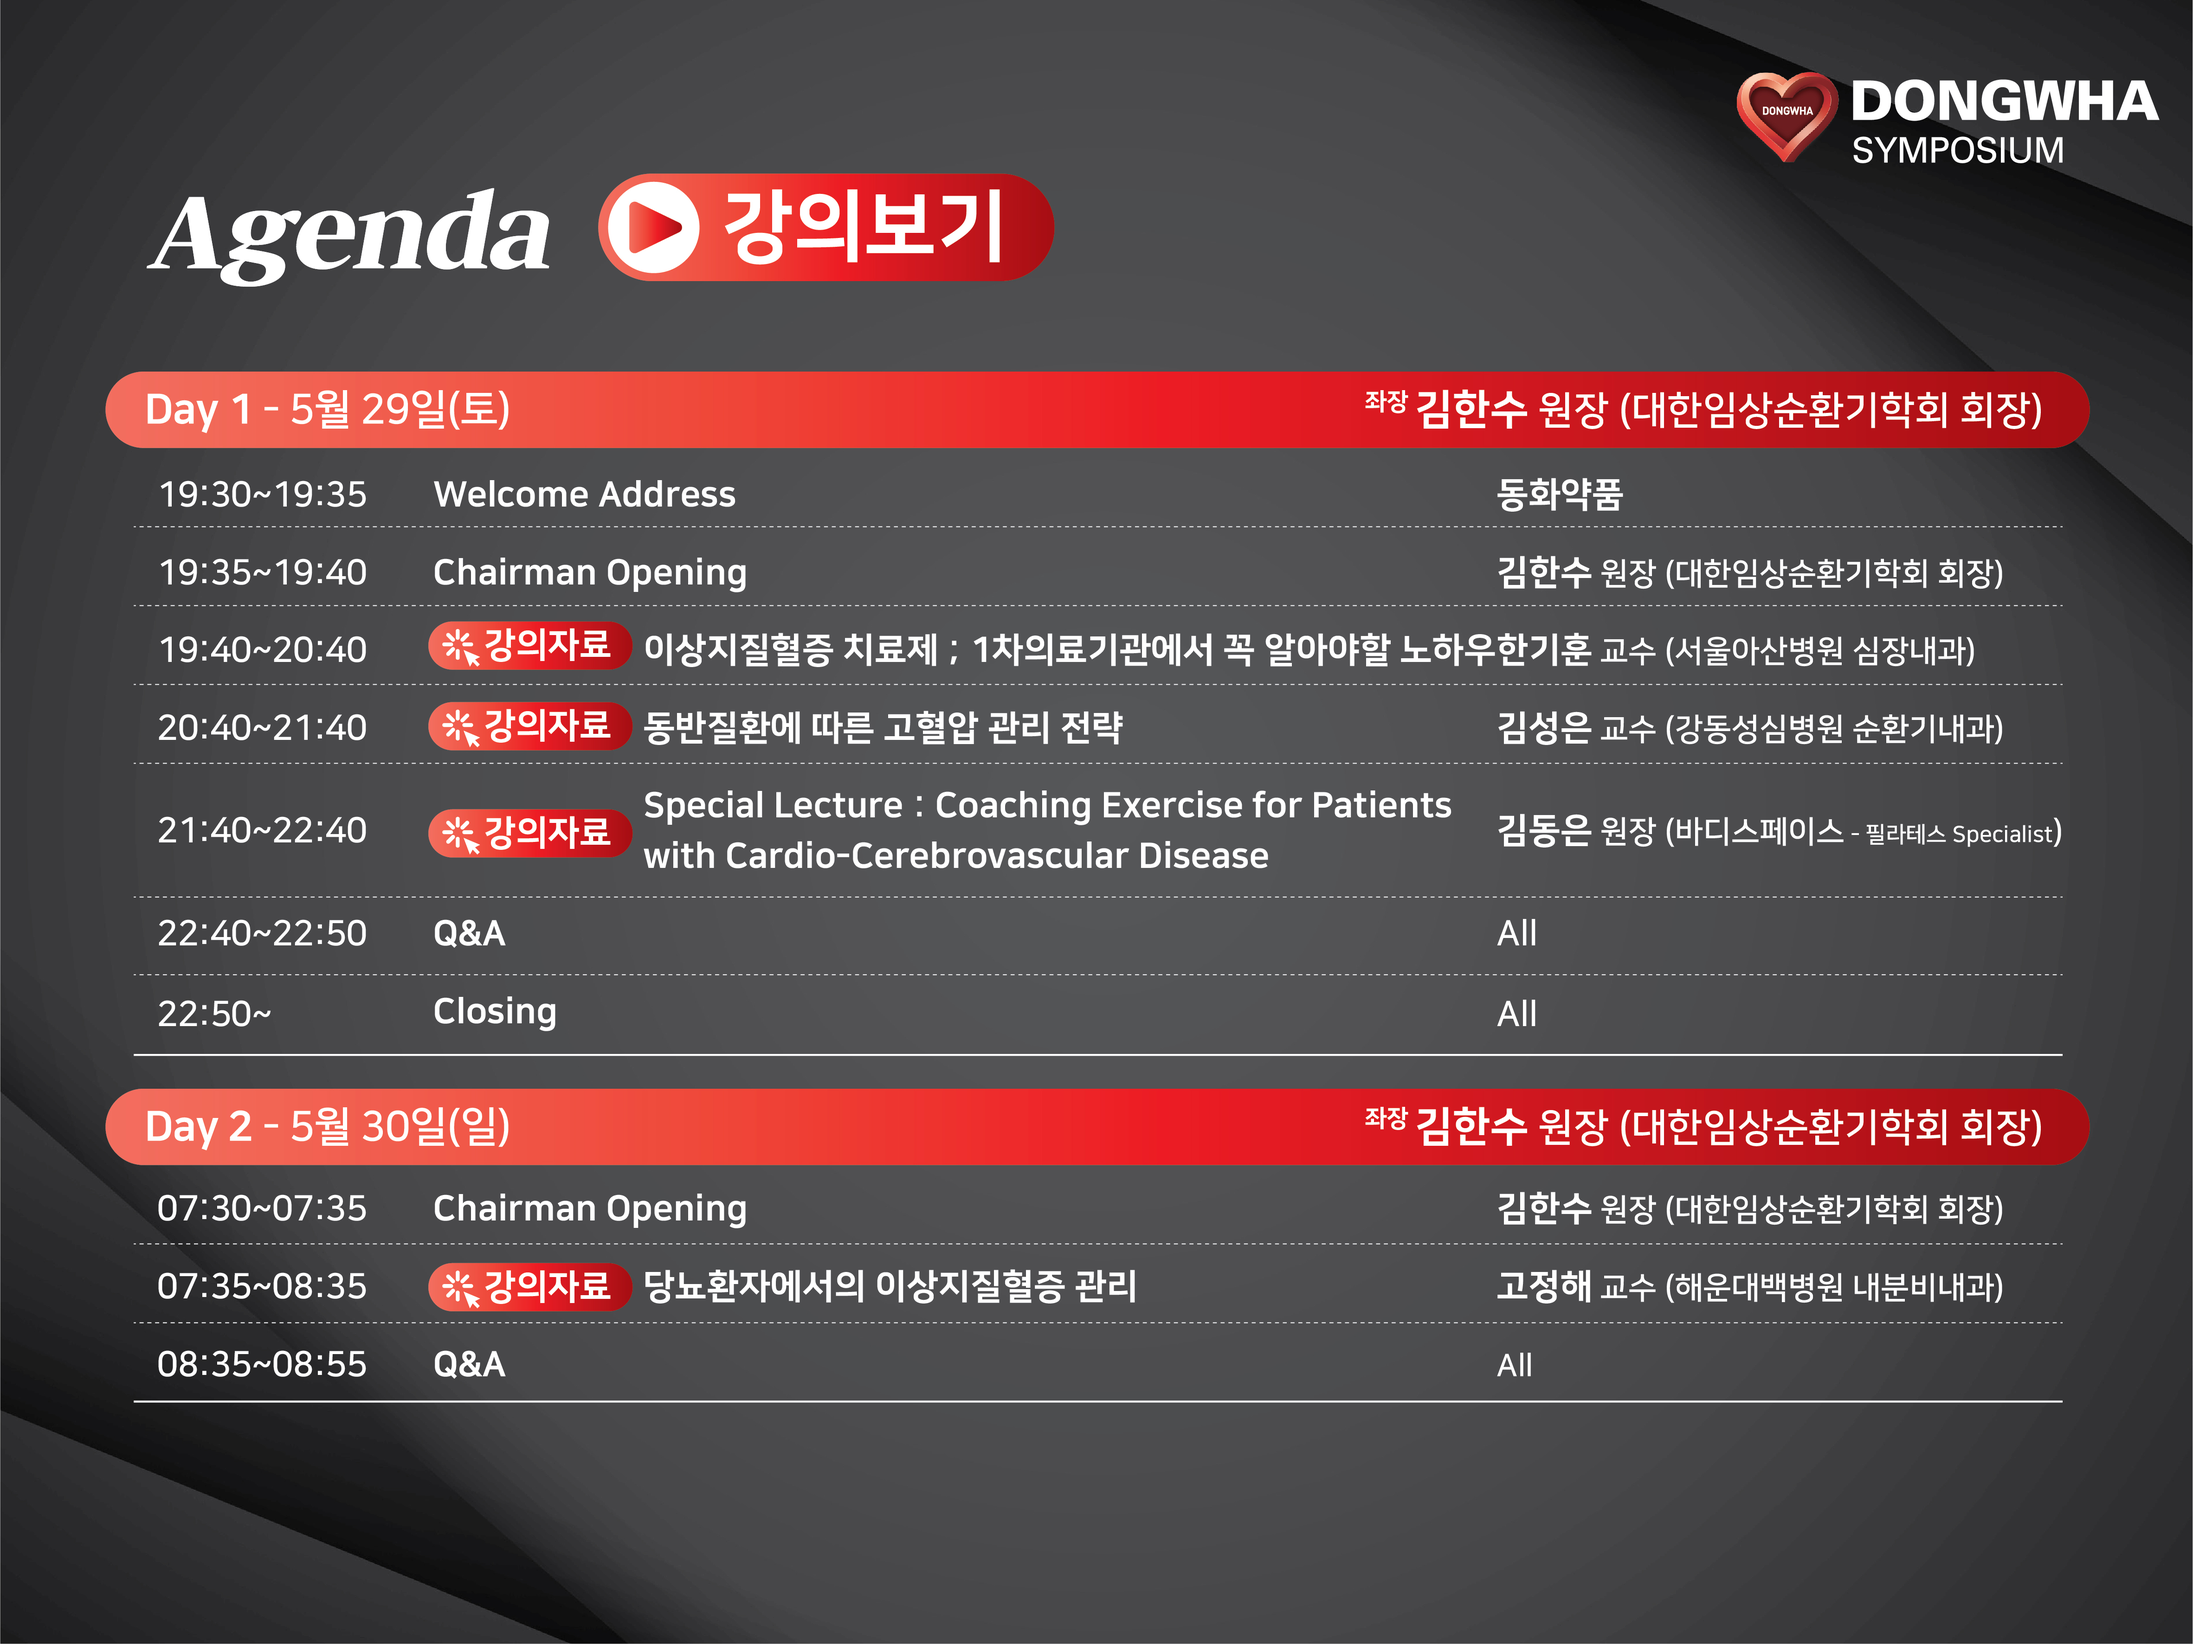
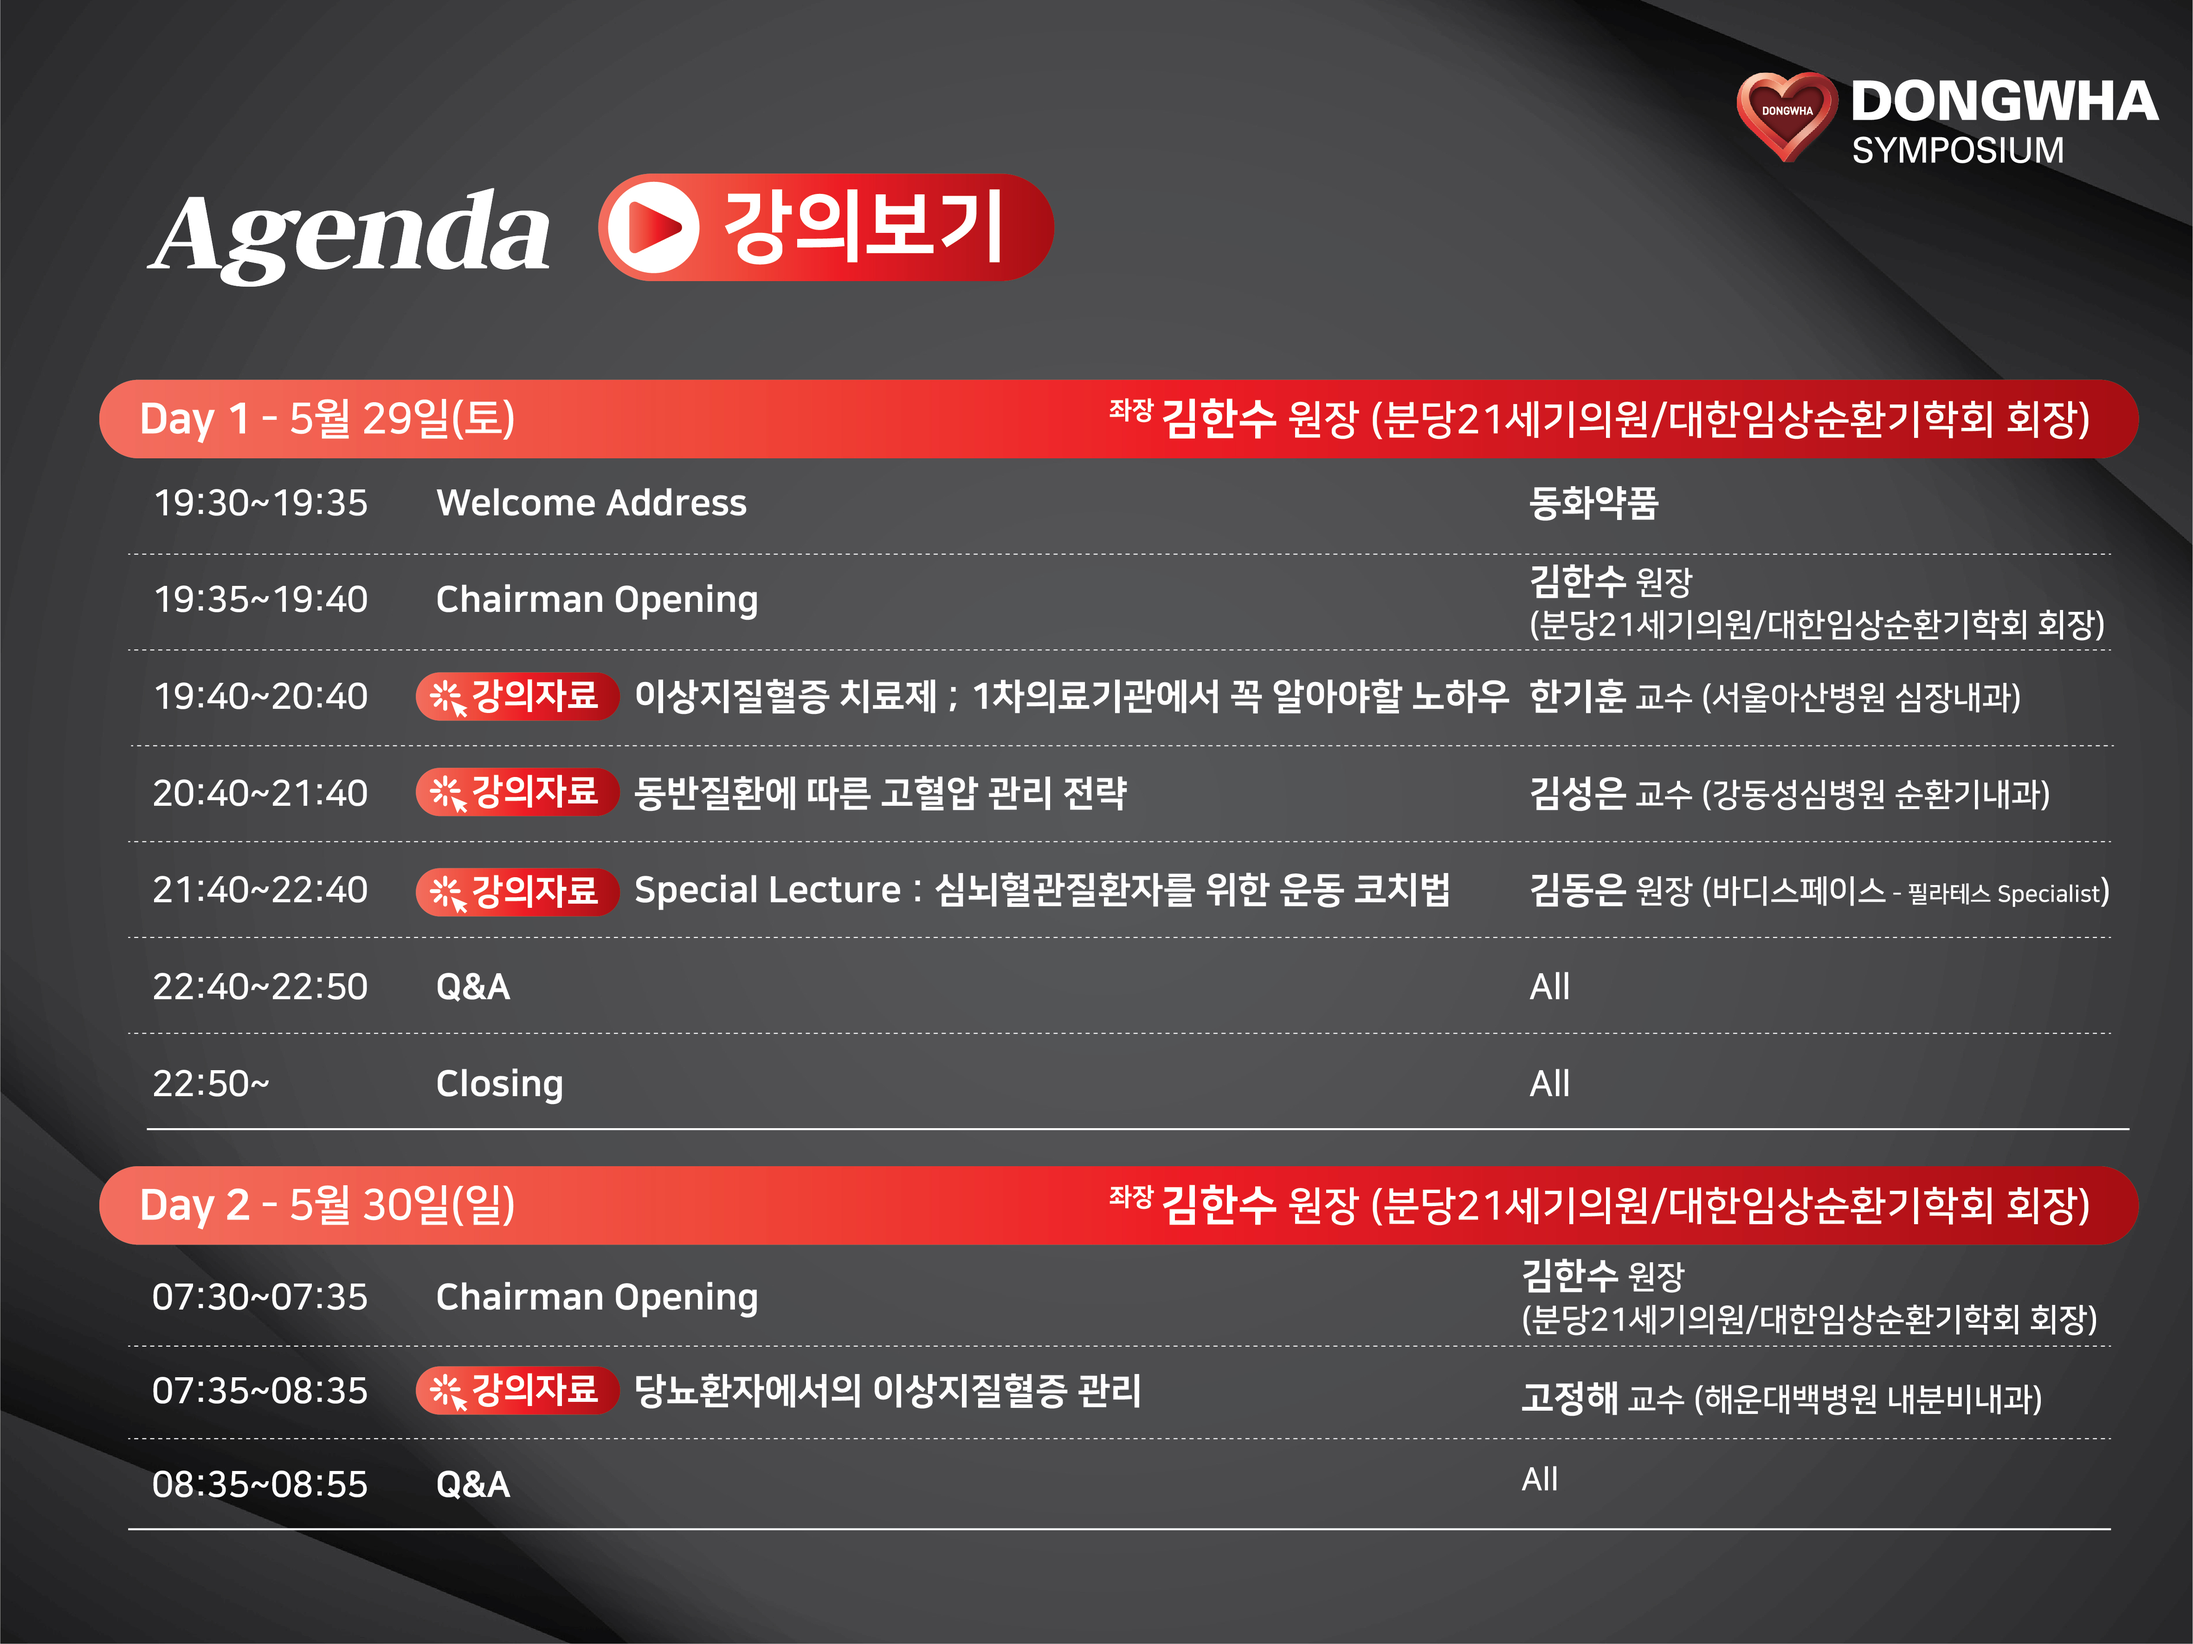
동화 어젠다 이미지 수정 및 버튼좌표 수정

Changed region(s): [[0.0311, 0.2173, 0.9953, 0.8691], [0.0622, 0.9001, 0.2488, 0.9312]]

diff --git a/app/Views/dongwha/dongwha_202105.php b/app/Views/dongwha/dongwha_202105.php
@@ -77,10 +77,10 @@ img#img-agenda { width: 100%; height: 100%; }
 
         <map name="map" id="map">
             <area shape="rect" coords="310,84,552,150" onclick="goToStream()">
-            <area shape="rect" coords="220,325,330,350" onclick="openLecture('<?= $DONGWHA_202105_LEC1_FILE_NM ?>', '<?= $DONGWHA_202105_LEC1_READY_YN ?>')">
-            <area shape="rect" coords="220,365,330,390" onclick="openLecture('<?= $DONGWHA_202105_LEC2_FILE_NM ?>', '<?= $DONGWHA_202105_LEC2_READY_YN ?>')">
-            <area shape="rect" coords="220,423,330,447" onclick="openLecture('<?= $DONGWHA_202105_LEC3_FILE_NM ?>', '<?= $DONGWHA_202105_LEC3_READY_YN ?>')">
-            <area shape="rect" coords="220,657,330,682" onclick="openLecture('<?= $DONGWHA_202105_LEC4_FILE_NM ?>', '<?= $DONGWHA_202105_LEC4_READY_YN ?>')">
+            <area shape="rect" coords="215,350,325,375" onclick="openLecture('<?= $DONGWHA_202105_LEC1_FILE_NM ?>', '<?= $DONGWHA_202105_LEC1_READY_YN ?>')">
+            <area shape="rect" coords="215,400,325,425" onclick="openLecture('<?= $DONGWHA_202105_LEC2_FILE_NM ?>', '<?= $DONGWHA_202105_LEC2_READY_YN ?>')">
+            <area shape="rect" coords="215,453,325,478" onclick="openLecture('<?= $DONGWHA_202105_LEC3_FILE_NM ?>', '<?= $DONGWHA_202105_LEC3_READY_YN ?>')">
+            <area shape="rect" coords="215,711,325,736" onclick="openLecture('<?= $DONGWHA_202105_LEC4_FILE_NM ?>', '<?= $DONGWHA_202105_LEC4_READY_YN ?>')">
         </map>
     </section>
 </div>
